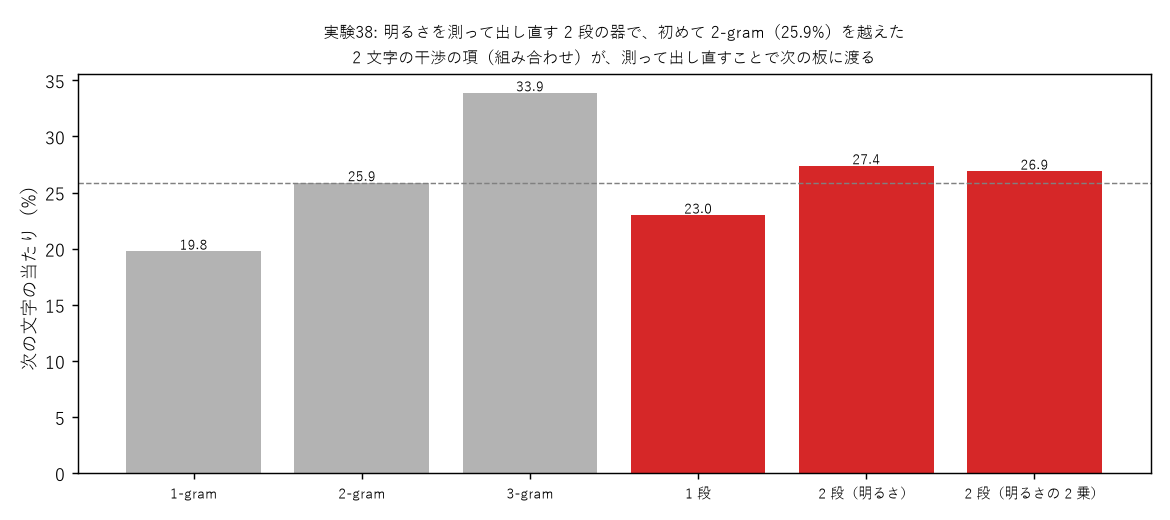
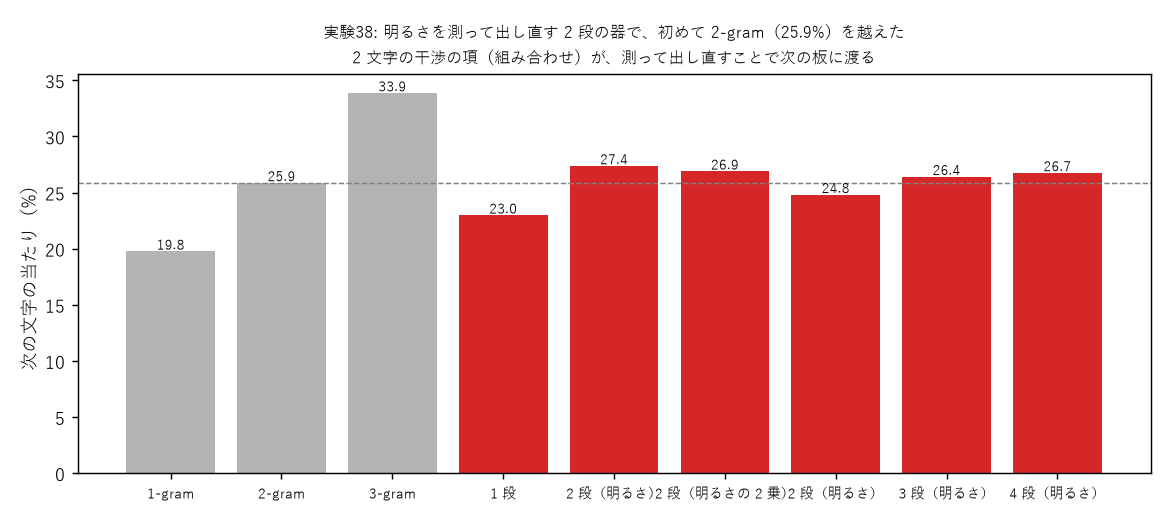
実験56: 語板を広げる（まれな名詞・動詞の語板・名詞 → 動詞 → 名詞）。光の量を保つ器の上限（同じ出口に集められる光の和 ≤ 1）。学び 56

Changed region(s): [[0.1231, 0.1538, 0.9538, 0.9846], [0.1231, 0.9231, 0.1846, 0.9846]]

diff --git a/experiments/exp56_goban_grow.py b/experiments/exp56_goban_grow.py
@@ -1,0 +1,122 @@
+"""実験56: 語板を広げる — 名詞を 1200 語に（まれな語は近い語板を写して学び始める）、動詞の語板、名詞 → 動詞 → 名詞とたどる
+
+着想: 実験55 の続き（2026-10-28、持ち主「やったー」のあと、次の一歩として）。
+  A. まれな名詞: 会話に少ししか出ない語は、数えた表がまばらで当てにならない。実験51（知らない物は近い語板を写して学び始める）を本物の会話で確かめる。
+     よく出る 400 語を先に学び、401〜1200 番目の名詞（まれな語）を 3 通りで作る:
+       まっさら 600 回 / まっさら 100 回 / 近い語板を写して 100 回（近さ = 学習用の数の表と、よく出る語の語板の明るさの合う率、実験51 の形）
+  B. 動詞の語板: 動詞 1 語 = 1 枚。観点 = 「を・が・で・に」の名詞（例: 食べる の を → ラーメン・パン …）。実験55 の表を裏返して作る。
+  C. たどる: 名詞の語板の「を」の観点 → 動詞の明るさ → 明るさを 2 乗して組み直し（実験50）→ 動詞の語板の「で」「が」の観点 → 名詞。
+     例: ラーメン →（を）→ 食べる →（で）→ 店。
+注意（試しで分かったこと）: 動詞の語板では、どの観点でも「その他」（上位 47 個以外の名詞）が 8 割を占める。光の量を保つ器では、
+      直交した入口 v の光が同じ出口 e に届く明るさの和は Σ_v |<e, U u_v>|² ≤ |e|² = 1 なので、4 つの観点すべてで 8 割を同じ出口に集めることはできない
+      （平均 25% 程度が上限）。試しでは「その他」に 33〜35% しか届かず、動詞を見ない割合（1.997 ビット）より悪かった（2.14）。
+      そこで「その他」を観点ごとに別の出口にした（実験41 の、モードを増やすと光が減るのと同じ理由）。
+材料: 実験55 と同じ（非公開フォルダの数の表、9 割学習・1 割確かめ）。
+結果の置き場: results/exp56.txt
+実行: CUDA_VISIBLE_DEVICES= python experiments/exp56_goban_grow.py
+"""
+import argparse, collections, json, math, os, sys, time
+
+import torch
+
+sys.path.insert(0, os.path.join(os.path.dirname(__file__), "..", "src"))
+from goban_batch import train, run, prob, evaluate
+
+ap = argparse.ArgumentParser()
+ap.add_argument("--data", default="D:/AI_git/Sin-CNN3_private/data/views")
+ap.add_argument("--seeds", type=int, default=3)
+ap.add_argument("--out", default="results/exp56.txt")
+a = ap.parse_args()
+sys.stdout.reconfigure(encoding="utf-8"); torch.set_num_threads(4)
+NV = 48; NVIEW = ["どんな", "を", "が", "で", "に"]; VVIEW = ["を", "が", "で", "に"]
+SKIP = set("こと 物 所 方 事 為 訳 時 中 前 後 内 外 上 下 他 気 感じ 一緒 自分 仕方 様 辺 程 頃 間 度 位 際 通り 儘 序で 筈 振り 積もり 以上 以外 場合 本当 皆 皆さん 今日 今 昨日 明日 先 次 横 側".split())
+C = json.load(open(f"{a.data}/counts.json", encoding="utf-8"))
+tot = {n: sum(sum(c.values()) for c in vs.values()) for n, vs in C["train"].items()}
+NOUNS = [n for n in sorted(tot, key=tot.get, reverse=True) if n not in SKIP][:1200]
+allv = {v: collections.Counter() for v in NVIEW}
+for n, vs in C["train"].items():
+    for v, c in vs.items():
+        allv[v].update(c)
+NVALS = {v: [x for x, _ in allv[v].most_common(NV - 1)] + ["その他"] for v in NVIEW}
+
+
+def tab(split, words, views, vals, get):
+    """(語, 観点, 値) の数。値 = 観点ごとの上位 47 個（番号 0〜46、観点どうしで同じ番号を使う）+ 観点ごとに別の「その他」（番号 47 + 観点の番号）。
+    「その他」を観点ごとに分けるのは、光の量を保つ器では、直交した入口（観点）の光を同じ 1 つの出口に大きく集められないため（下の注意）。"""
+    T = torch.zeros(len(words), len(views), NV - 1 + len(views))
+    for i, w in enumerate(words):
+        for j, v in enumerate(views):
+            for x, c in get(split, w, v).items():
+                T[i, j, vals[v].index(x) if x in vals[v][:-1] else NV - 1 + j] += c
+    return T
+
+
+nget = lambda s, n, v: C[s].get(n, {}).get(v, {})
+NTR, NTE = tab("train", NOUNS, NVIEW, NVALS, nget), tab("test", NOUNS, NVIEW, NVALS, nget)
+# 動詞の表 = 名詞の表を裏返す（動詞 → 観点 → 名詞の数）
+VC = {s: collections.defaultdict(lambda: collections.defaultdict(collections.Counter)) for s in C}
+for s in C:
+    for n, vs in C[s].items():
+        if n in SKIP:
+            continue
+        for v in VVIEW:
+            for x, c in vs.get(v, {}).items():
+                VC[s][x][v][n] += c
+vtot = {x: sum(sum(c.values()) for c in vs.values()) for x, vs in VC["train"].items()}
+VERBS = [x for x in sorted(vtot, key=vtot.get, reverse=True)][:300]
+allvn = {v: collections.Counter() for v in VVIEW}
+for x, vs in VC["train"].items():
+    for v, c in vs.items():
+        allvn[v].update(c)
+VVALS = {v: [n for n, _ in allvn[v].most_common(NV - 1)] + ["その他"] for v in VVIEW}
+vget = lambda s, x, v: VC[s].get(x, {}).get(v, {})
+VTR, VTE = tab("train", VERBS, VVIEW, VVALS, vget), tab("test", VERBS, VVIEW, VVALS, vget)
+norm = lambda T: T / T.sum(2, keepdim=True).clamp(min=1)
+cnt = lambda T: (T + 0.5) / (T + 0.5).sum(2, keepdim=True)
+prior = lambda T: (T.sum(0) + 0.5) / (T.sum(0) + 0.5).sum(1, keepdim=True)
+FREQ, RARE = slice(0, 400), slice(400, 1200)
+print("まれな名詞（401〜1200 番目）の学習用の数:", int(NTR[RARE].sum(2).sum(1).min()), "〜", int(NTR[RARE].sum(2).sum(1).max()), flush=True)
+for seed in range(a.seeds):
+    t0 = time.time(); row = dict(exp="56", seed=seed)
+    # A. 名詞
+    Pf = train(norm(NTR[FREQ]), NTR[FREQ].sum(2) >= 3, 600, seed)
+    Wf = run(Pf, len(NVIEW), NV - 1 + len(NVIEW)); Prf = prob(Wf)
+    T = NTR[RARE]; use = T.sum(2) >= 1; Ttgt = norm(T)
+    lp = torch.einsum("rvx,fvx->rf", T, torch.log(Prf.clamp(min=1e-9))) / T.sum((1, 2)).clamp(min=1)[:, None]   # 合う率（対数の平均）
+    near = lp.argmax(1)
+    A = {}
+    for kind, steps, P0 in [("まっさら 600 回", 600, None), ("まっさら 100 回", 100, None), ("近い語板を写して 100 回", 100, Pf[near]), ("近い語板を写すだけ", 0, Pf[near])]:
+        P = train(Ttgt, use, steps, seed + 1, P0=P0) if steps > 0 else P0
+        A[kind] = evaluate(prob(run(P, len(NVIEW), NV - 1 + len(NVIEW))), NTE[RARE])
+    A["数えた表"] = evaluate(cnt(T), NTE[RARE])
+    for k in (2, 5, 10):                                                                 # 比べ（強め）: 表を観点の割合へ寄せて平らに（数の少ない語ほど寄る）
+        A[f"表を観点の割合で平らに k={k}"] = evaluate((T + k * prior(NTR)[None]) / (T.sum(2, keepdim=True) + k), NTE[RARE])
+    A["名詞を見ない"] = evaluate(prior(NTR)[None].expand(T.shape[0], -1, -1), NTE[RARE])
+    A["よく出る 400 語の語板"] = evaluate(Prf, NTE[FREQ]); A["よく出る 400 語の表"] = evaluate(cnt(NTR[FREQ]), NTE[FREQ])
+    ex = {NOUNS[400 + i]: NOUNS[int(near[i])] for i in range(0, 800, 80)}
+    row.update(A=A, near_examples=ex)
+    print(seed, "A まれな名詞:", {k: round(v["bits"], 3) for k, v in A.items()}, "近い語板の例", ex, flush=True)
+    # B. 動詞
+    Pv = train(norm(VTR), VTR.sum(2) >= 3, 600, seed)
+    Wv = run(Pv, len(VVIEW), NV - 1 + len(VVIEW))
+    B = {"語板": evaluate(prob(Wv), VTE), "数えた表": evaluate(cnt(VTR), VTE), "表を平らに k=10": evaluate((VTR + 10 * prior(VTR)[None]) / (VTR.sum(2, keepdim=True) + 10), VTE), "動詞を見ない": evaluate(prior(VTR)[None].expand(len(VERBS), -1, -1), VTE)}
+    row["B"] = B
+    print(seed, "B 動詞:", {k: {kk: round(vv, 3) for kk, vv in v.items()} for k, v in B.items()}, flush=True)
+    # C. たどる: 名詞 →（を）→ 動詞 →（で / が）→ 名詞
+    Prv = prob(Wv); chain = {}
+    for n in ["ラーメン", "映画", "電車", "服", "本", "ゲーム", "料理", "ビール"]:
+        if n not in NOUNS[:400]:
+            continue
+        d = Prf[NOUNS.index(n), NVIEW.index("を")]                                         # を の観点の動詞の割合
+        vs = [x for x in NVALS["を"][:-1] if x in VERBS]
+        w = torch.tensor([float(d[NVALS["を"].index(x)]) for x in vs]) ** 2; w = w / w.sum()   # 明るさを 2 乗して組み直す（実験50）
+        top_v = [vs[int(j)] for j in torch.argsort(w, descending=True)[:3]]
+        out = {}
+        for v2 in ["で", "が"]:
+            mix = sum(w[i] * Prv[VERBS.index(x), VVIEW.index(v2)] for i, x in enumerate(vs))
+            out[v2] = [VVALS[v2][int(j)] for j in torch.argsort(mix[:NV - 1], descending=True)[:5]]
+        chain[n] = dict(verbs=top_v, **out)
+    row["C"] = chain; row["sec"] = time.time() - t0
+    print(seed, "C たどる:", chain, f"{row['sec']:.0f} 秒", flush=True)
+    with open(a.out, "a", encoding="utf-8") as f:
+        f.write(json.dumps(row, ensure_ascii=False) + "\n")

diff --git a/src/goban_batch.py b/src/goban_batch.py
@@ -1,0 +1,64 @@
+"""goban_batch.py — 語板（1 語 = 1 枚の光の器）をまとめて学習・評価する部品（実験55 の中身を部品にしたもの）
+
+器は src/grain.py と同じ（縦 N = 64、画素の板 K = 8 列、列の間 64 画素）。観点 v（1 から）= 周波数 v の波を入れ、
+値 j の明るさを周波数 VAL0 + j で読む。たくさんの語板を 1 つのテンソル P（語, N, K）にまとめて計算する。
+
+使い方:
+    P = train(target, use, steps=600, seed=0)          # target: (語, 観点, 値) の割合、use: (語, 観点) 学習に使うか
+    W = run(P, n_views, n_vals)                        # (語, 観点, 値) の明るさ
+    ev = evaluate(prob, counts)                        # 確かめ用の数 counts で、交差エントロピー・上位 1・5
+"""
+import math
+
+import torch
+
+from grain import N, K, DZ, view_wave
+
+VAL0 = 10
+_L = 2 * N
+_H = {}
+
+
+def _h(dev):
+    if dev not in _H:
+        _H[dev] = torch.exp(1j * DZ * torch.sqrt((2 * math.pi) ** 2 - (2 * math.pi * torch.fft.fftfreq(_L)) ** 2)).to(dev)
+    return _H[dev]
+
+
+def run(P, n_views, n_vals):
+    dev = P.device; H = _h(dev); u0 = view_wave(range(1, n_views + 1)).to(dev)
+    u = torch.nn.functional.pad(u0, (0, _L - N))[None].expand(P.shape[0], -1, -1)
+    for k in range(K):
+        u = torch.cat([u[..., :N] * torch.exp(1j * P[:, None, :, k]), u[..., N:]], -1)
+        u = torch.fft.ifft(torch.fft.fft(u, dim=-1, norm="ortho") * H, dim=-1, norm="ortho")
+    return torch.fft.fft(u[..., :N], dim=-1, norm="ortho").abs()[..., VAL0:VAL0 + n_vals] ** 2
+
+
+def init_plates(n, seed=0, dev="cpu"):
+    """2 値（0 か π）の初期板（学び 45 で最も速い）。"""
+    g = torch.Generator().manual_seed(seed)
+    return (math.pi * (torch.rand(n, N, K, generator=g) < 0.5).float()).to(dev)
+
+
+def train(target, use, steps=600, seed=0, P0=None, lr=0.01, dev="cpu"):
+    """target の割合に合わせて語板をまとめて学習する。P0 を渡すとそこから始める（近い語板を写したときなど）。"""
+    nv, nx = target.shape[1], target.shape[2]
+    P = torch.nn.Parameter((init_plates(target.shape[0], seed, dev) if P0 is None else P0.clone()).to(dev))
+    opt = torch.optim.Adam([P], lr=lr); q = torch.cat([target, torch.zeros(*target.shape[:2], 1)], -1).to(dev); m = use.to(dev)
+    for _ in range(steps):
+        W = run(P, nv, nx); p = torch.cat([W, (1 - W.sum(-1, keepdim=True)).clamp(min=1e-9)], -1)
+        loss = -(q * torch.log(p + 1e-9)).sum(-1)[m].mean(); opt.zero_grad(); loss.backward(); opt.step()
+    return P.detach()
+
+
+def prob(W, eps=0.02):
+    """明るさを割合に直し、少しだけ平らにする（0 の値を避ける）。"""
+    return (1 - eps) * W / W.sum(-1, keepdim=True).clamp(min=1e-12) + eps / W.shape[-1]
+
+
+def evaluate(Pr, counts):
+    """counts: (語, 観点, 値) の確かめ用の数。数で重みをつけた交差エントロピー（ビット）と上位 1・5。"""
+    Pr = Pr.cpu(); w = counts; lp = torch.log2(Pr.clamp(min=1e-9))
+    rank = (Pr[..., None, :] > Pr[..., :, None]).sum(-1)
+    s = w.sum().clamp(min=1)
+    return dict(bits=float(-(w * lp).sum() / s), top1=float((w * (rank < 1)).sum() / s), top5=float((w * (rank < 5)).sum() / s), n=int(w.sum()))

diff --git a/tools/fig_status_map.py b/tools/fig_status_map.py
@@ -14,7 +14,7 @@ COLS = [
     ("4. 組み合わせ", [("どちらか片方だけ（カー効果）", OK, "14"), ("明るさを測って出し直す 2 段", OK, "38・40"), ("関係を何段たどっても濁らない\n（p 乗 + 利得のループ）", OK, "17・50"), ("カー効果で語順（強さをそろえ、
 焦点面でかける）", PART, "54: 2-gram 越え"), ("両方そろったときだけ（完全に）", PART, "40: 42〜49%")]),
     ("5. 文脈", [("光の注意機構（部品）", OK, "49"), ("長い文脈（番地に並べる）", OK, "49: 4096 で 100%"), ("次の文字: 2-gram 越え", PART, "38: 27.4%"), ("3-gram 越え", TODO, "33.9% に届かず"), ("語の順番（位置）の入れ方", TODO, ""), ("トランスフォーマーより良い\n注意機構", TODO, "持ち主の方針")]),
-    ("6. 会話", [("会話データ（非公開）", OK, "実会話 1.4 万・小説 10 万"), ("周りの語の属性の掛け算で\n空いた語を当てる", PART, "52: 手がかりは手作り"), ("トークンの分け方（形態素）", OK, "Sudachi で 1600 万語"), ("語板（会話から 400 語）", OK, "55: 表にほぼ追いつく"), ("名前を第三者 No.nnn に", TODO, ""), ("文を作る（生成）", TODO, ""), ("対話の評価", TODO, "")]),
+    ("6. 会話", [("会話データ（非公開）", OK, "実会話 1.4 万・小説 10 万"), ("周りの語の属性の掛け算で\n空いた語を当てる", PART, "52: 手がかりは手作り"), ("トークンの分け方（形態素）", OK, "Sudachi で 1600 万語"), ("語板（会話から 400 語）", OK, "55: 表にほぼ追いつく"), ("動詞の語板・名詞→動詞→名詞", OK, "56"), ("名前を第三者 No.nnn に", TODO, ""), ("文を作る（生成）", TODO, ""), ("対話の評価", TODO, "")]),
 ]
 fig, ax = plt.subplots(figsize=(19, 9), dpi=120); ax.set_xlim(0, 19); ax.set_ylim(-0.4, 9.4); ax.axis("off")
 W, H, GAP = 2.9, 0.84, 0.1
@@ -32,5 +32,5 @@ for c, (title, items) in enumerate(COLS):
 for i, (col, lab) in enumerate([(OK, "できた（式・実験で確かめた）"), (PART, "一部できた"), (TODO, "まだ・失敗")]):
     ax.add_patch(FancyBboxPatch((0.3 + i * 3.6, -0.3), 0.4, 0.3, boxstyle="round,pad=0.01", fc=col, ec="0.5"))
     ax.text(0.8 + i * 3.6, -0.15, lab, va="center", fontsize=9)
-ax.text(18.7, -0.15, "Sin-CNN3 のいま（2026-10-28、実験 01〜55）", ha="right", va="center", fontsize=9, color="0.3")
+ax.text(18.7, -0.15, "Sin-CNN3 のいま（2026-10-28、実験 01〜56）", ha="right", va="center", fontsize=9, color="0.3")
 fig.tight_layout(); fig.savefig("docs/images/status_map.png")

diff --git a/docs/lessons/56_語板を広げる.md b/docs/lessons/56_語板を広げる.md
@@ -1,0 +1,92 @@
+# 学び 56: 語板を広げる — まれな語・動詞の語板・名詞 → 動詞 → 名詞（実験56）
+
+2026-10-28。実験56（experiments/exp56_goban_grow.py）、部品 src/goban_batch.py（語板をまとめて学習・評価する）。
+
+## 目的
+
+実験55 で、会話データから名詞 400 語の語板を作れた。次の一歩として 3 つを確かめる。
+
+- **A. まれな語**: 会話に少ししか出ない語（401〜1200 番目の名詞、学習用の出現 52〜154 回）は、数えた表がまばらになる。
+  実験51 の「知らない物は近い語板を写して学び始める」が、本物の会話で効くか。
+- **B. 動詞の語板**: 動詞 1 語 = 1 枚。観点 = 「を・が・で・に」の名詞（例: 食べる の「を」→ ラーメン・パン）。実験55 の表を裏返して作る（300 語）。
+- **C. たどる**: 名詞の語板 →（を）→ 動詞の明るさ → 2 乗して組み直す（実験50）→ 動詞の語板 →（で・が）→ 名詞。
+
+## 途中で見つけたこと: 光の量を保つ器の上限
+
+動詞の語板を最初に作ったとき、交差エントロピーが 2.14 ビットで、**動詞を見ない（観点ごとの割合だけ）2.00 より悪かった**。
+調べると、動詞の観点の値のうち、上位 47 個以外の名詞（「その他」）が平均 81% を占めていた。語板は「その他」に 33〜35% しか光を送れていなかった。
+
+理由は、器が光の量を保つ（ユニタリ）こと。4 つの観点の入口の波は直交していて、器を通っても直交したまま。
+同じ 1 つの出口 e に届く明るさを、4 つの入口について足すと、
+
+Σ_観点 |<e, U u_観点>|² ≤ |e|² = 1
+
+になる。**4 つの観点がすべて 81% を同じ出口に送ることはできない**（平均 25% 程度が上限）。
+実験41 で「モードを増やすと答えに届く光が減る」と同じ理由で、器の大切な性質。
+
+そこで「その他」を観点ごとに別の出口にした（出口 = 共通の 47 個 + 観点ごとの「その他」）。すると動詞の語板は 1.51 ビットになり、表（1.47）にほぼ並んだ。
+名詞の語板も良くなった（実験55 の 2.69 → 2.57、表 2.54）。
+
+**教訓: 光の器では、違う入口から同じ答えを大量に出したいときは、出口を分ける**。
+
+## 結果（3 seed）
+
+![実験56](../images/exp56_goban_grow.png)
+
+### A. まれな名詞（交差エントロピー、低いほど良い）
+
+| 作り方 | ビット |
+|---|---|
+| 名詞を見ない | 3.74 |
+| 数えた表（+0.5 で平らに） | 3.02 |
+| 語板 まっさら 100 回 | 3.03 |
+| 語板 近い語板を写すだけ（学習なし） | 3.19〜3.21 |
+| 語板 まっさら 600 回 | 2.77〜2.78 |
+| **語板 近い語板を写して 100 回** | **2.70〜2.71** |
+| 表を観点の割合へ寄せて平らに（k = 2 / 5） | 2.61 / **2.55** |
+
+- **近い語板を写して 100 回は、まっさら 600 回より良く、6 分の 1 の学習で済む**（実験51 の受け継ぎが、本物の会話でも効いた）。
+- 素朴な表（+0.5）には勝った。**ただし、表を「観点ごとの割合」へ寄せて平らにする（数の少ない語ほど全体の割合に寄せる、昔からある平滑化）と、表の方が良い（2.55）**。
+  持ち主に「まれな語では表に勝った」と途中で伝えたが、弱い比べ相手に対してだった。訂正。
+- 写した「近い語板」は、意味が近いとは限らない（連休 → 休み、練習 → 仕事 は近いが、傘 → 金、壁 → 心 は遠い）。近さを、表の 5 観点の形の似方だけで決めているため。
+
+### B. 動詞の語板
+
+| 方法 | ビット | 上位 1 |
+|---|---|---|
+| 動詞を見ない | 2.00 | 0.77 |
+| **語板（「その他」を観点ごとに分けた）** | **1.51** | **0.77** |
+| 数えた表 | 1.47 | 0.77 |
+| 表を平らに（k = 10） | 1.41 | 0.77 |
+
+### C. 名詞 → 動詞 → 名詞とたどる（seed 0）
+
+| 名詞 | 「を」の動詞（上位 3） | → その動詞を「で」する名詞 | → その動詞を「が」する名詞 |
+|---|---|---|---|
+| ラーメン | 食べる・作る・調べる | 家・御店・一人・生・近く | 子供・人・味 |
+| 映画 | 見る・作る・取る | テレビ・目・映画館・ニュース | 人・顔・子供 |
+| 服 | 着る・買う・見る | 家・部屋・一人・スーパー | 人・子供・者 |
+| 本 | 読む・買う・探す | 無料・スマホ・ネット | 心・子供・人 |
+| 料理 | 作る・食べる・為る | 家・御自分・一人・御店・自宅 | 音・子供・人 |
+
+「ラーメンを食べる → 家で・お店で」「映画を見る → テレビで・映画館で」「服を買う → スーパーで」と、2 段たどって意味の通る答えが出た。
+「が」の観点は「子供・人」が多く、まだ一般的すぎる（会話では主語を言わないことが多い）。
+
+## なぜそうなったか
+
+- 語板は「表をまねる」ので、よく出る語では表に近づき、越えない。まれな語では、表がまばらで、語板も同じまばらな表をまねるので、
+  語板ならではの強さは「近い語板から始めると少ない学習で済む」点に出た。平滑化そのものは、表を全体の割合へ寄せる方が上手。
+- たどる処理は、実験50 の「2 乗して組み直す」で、名詞 → 動詞の段で候補を絞ってから次の語板へ渡している。
+
+## 分かったこと
+
+- **語板は数を増やせる**（名詞 1200 語 + 動詞 300 語を、CPU で 1 seed 約 50 秒）。動詞にも語板を作れ、名詞 → 動詞 → 名詞とたどれる。
+- **光の量を保つ器では、違う入口から同じ出口へ大量に光を集められない**。出口を分けることで解決した。大規模にするときの設計の大事な決まりになる。
+- まれな語は、近い語板を写して始めると学習が 6 分の 1 で済む。ただし平滑化の上手さでは、昔からの表の方法に負ける。
+  語板の強み（逆引き・掛け算・融合・たどる）と、表の強み（平滑化）を組み合わせる形を考える必要がある。
+
+## 残った疑問
+
+- 近い語板の選び方を、意味の近さ（逆引きの明るさの似方、文脈）で行う。
+- 語板の学習に、表を観点の割合へ寄せる平滑化を入れる（目標の表を平らにしてから学ぶ）と、表に追いつくか。
+- 「が」の観点を、主語を省いた会話でどう扱うか。

diff --git a/docs/overview.md b/docs/overview.md
@@ -1,6 +1,6 @@
 # Sin-CNN3 のいま（一目で分かるページ）
 
-2026-10-28 時点。実験 01〜55。数字の正本は [NOTES.md](../NOTES.md)、一歩ずつの説明は [docs/lessons/](lessons/)。
+2026-10-28 時点。実験 01〜56。数字の正本は [NOTES.md](../NOTES.md)、一歩ずつの説明は [docs/lessons/](lessons/)。
 
 **ひとことで**: 記号を「波の周波数」で表し、光の器（学習する位相の板 + 回折）に通して、出口の明るさで答えを読む。小さな模型から 1 つずつ作り、**なぜできるか・なぜできないか**を式と手計算で確かめている研究です。チャットボットはまだ作れていません。
 
@@ -52,6 +52,7 @@
 | 周りの語の属性の掛け算で ○○ を当てる | 掛け算は確信度 80〜100%（足し算 27〜53%）。遠くに別の話がある文は、近い語を強める重み（× 1.2）で初めて当たる | 合わない候補が掛け算で 0 に近づく。位置の重みは注意機構と同じ役（実験52） |
 | 「〜ではない」は残りの光（1 − p）で表す | 否定を含む文 15 問で全問正解・確信度 54〜95%。割り算は 7/15 | 「赤くない」は範囲が広く 1 つの値で表せない。その値に行かなかった光の割合なら範囲によらない（持ち主の「0 − 特徴」を明るさ 1 基準にした形）（実験53） |
 | **会話データから語板（ごばん）を作った** | 名詞 400 語 × 5 観点（どんな・を・が・で・に）を本物の会話から学び、学習に使っていない会話で数えた表にほぼ追いつく（交差エントロピー 2.69 対 2.53）。逆引きも意味を持つ（を 食べる → ラーメン・パン・御飯） | 助詞が名詞と隣の語の関係を決めるので、助詞ごとに観点を分けられる（実験55） |
+| 動詞の語板と、名詞 → 動詞 → 名詞のたどり | ラーメン →を→ 食べる →で→ 家・お店、映画 → 見る → テレビ・映画館。まれな語は近い語板を写すと学習 6 分の 1 | 光の量を保つ器では、違う入口から同じ出口に大量の光を集められない（和が 1 以下）ので、「その他」を観点ごとに分けた（実験56） |
 
 ## 4. まだできないこと・分かっていないこと
 
@@ -83,6 +84,7 @@
 | 53 | 「〜ではない」の表し方（割り算・0 − 特徴・1 − p） | [図](images/exp53_negation.png) | [学び 53](lessons/53_ではないの表し方.md) |
 | 54 | カー効果を焦点面でかけて語順（実験35 の失敗の原因） | [図](images/exp54_kerr_focal.png) | [学び 54](lessons/54_カー効果を焦点面で.md) |
 | 55 | 会話データから語板（名詞 400 語、5 観点）を作る | [図](images/exp55_goban_corpus.png) | [学び 55](lessons/55_会話データから語板.md) |
+| 56 | 語板を広げる（まれな名詞・動詞の語板・名詞 → 動詞 → 名詞） | [図](images/exp56_goban_grow.png) | [学び 56](lessons/56_語板を広げる.md) |
 | 50 | 非線形のループで関係を何段たどっても濁らないか | [図](images/exp50_chain_cleanup.png) | [学び 50](lessons/50_ループで関係をたどっても濁らない.md) |
 
 実験01〜34 は [docs/lessons/](lessons/) の番号順と、[初日のまとめ](summary_20261027.md)。
